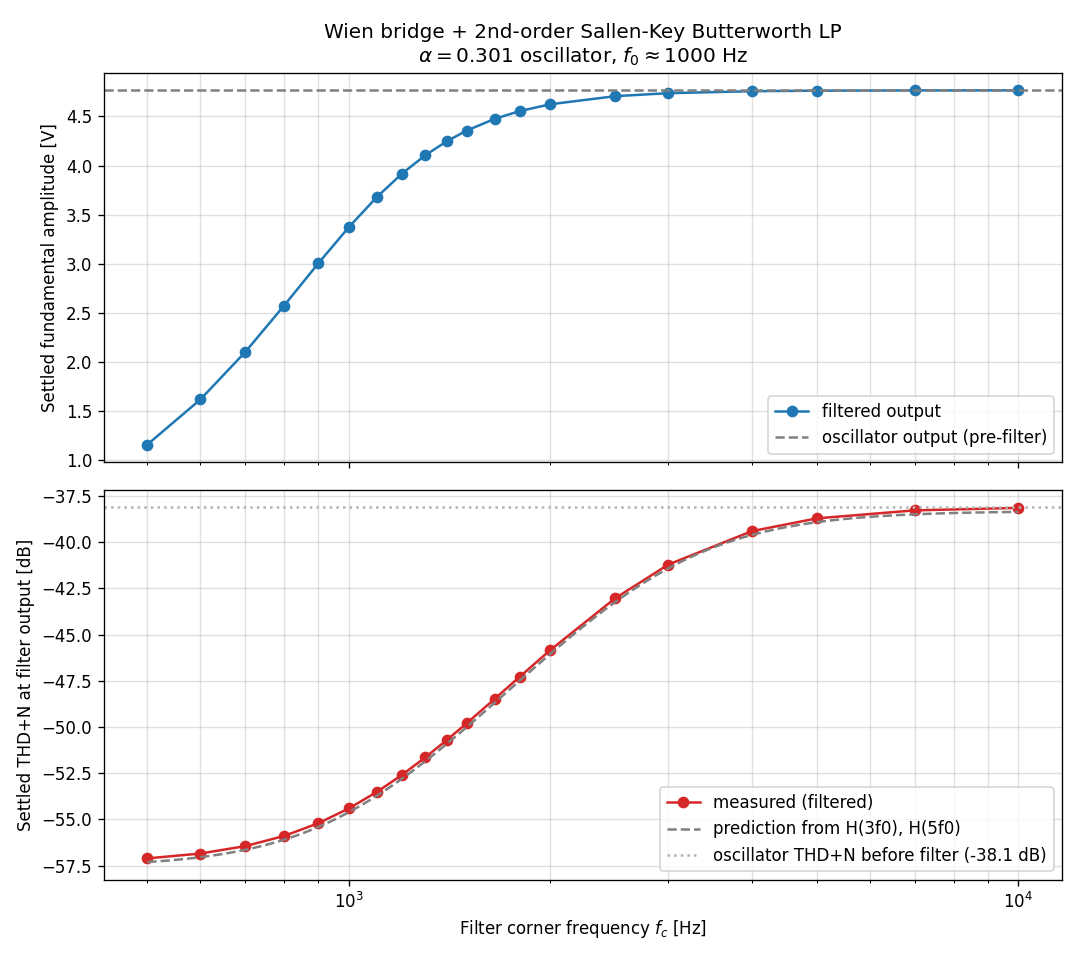
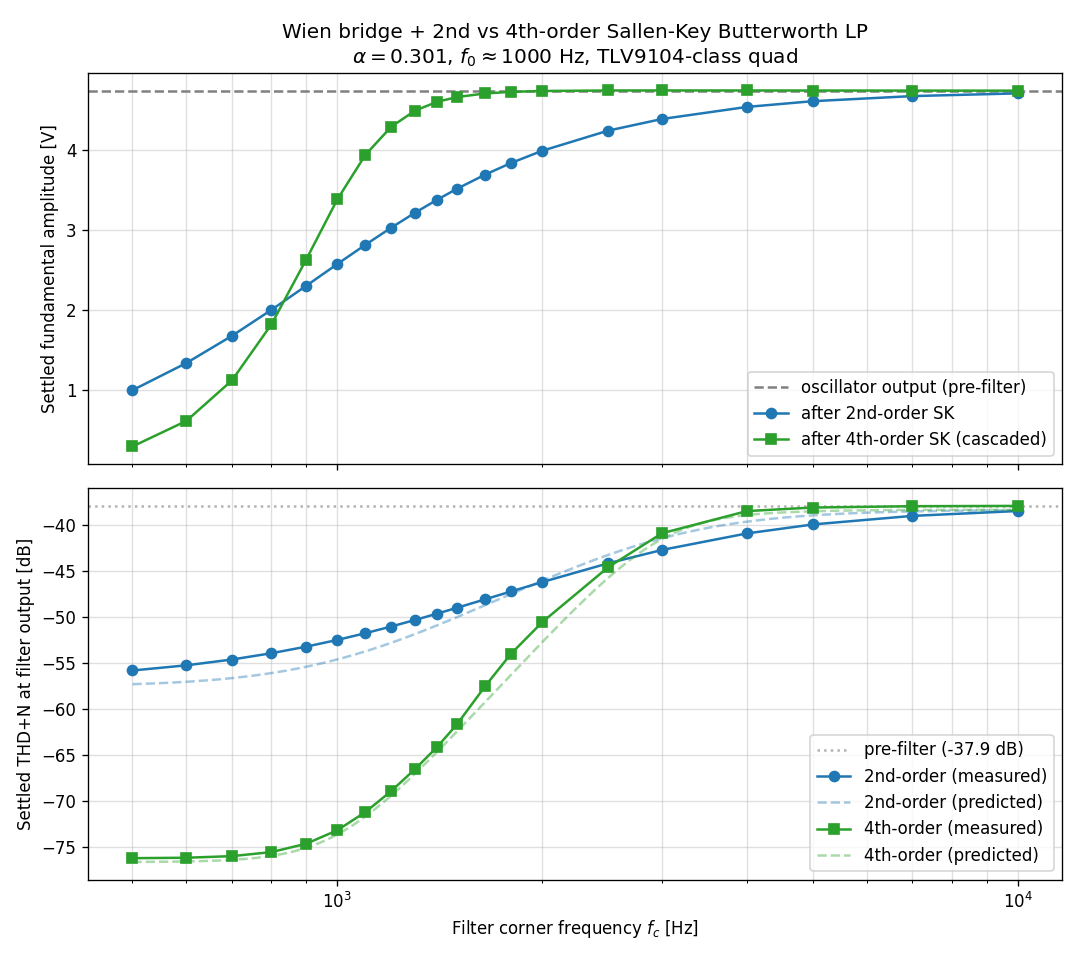
Add 4th-order Sallen-Key option using a TLV9104 quad's spare op-amps
The previous LP sweep used a single 2nd-order SK stage (one op-amp on
top of the oscillator). With a quad op-amp (TLV9104 from the user's
target application), we have two more op-amps free. Cascading them
into a 4th-order Butterworth (Q1=0.5412 + Q2=1.3066, same fc) doubles
the rolloff to 24 dB/oct.

Re-parameterised both the oscillator and the SK followers as TLV9104:
Avol=3.16M (130 dB), GBW=1 MHz, Vrail=100 mV (rail-to-rail), supplies
+/-5 V (within TLV9104's 2.7 V to 16 V range; 4.77 V peak oscillator
amplitude fits comfortably). The lower GBW vs NE5532 doesn't kill
oscillation -- loop characteristic cubic still gives clean RHP roots
at X = 0.099+j0.99, growth per period ~ exp(0.62) just like before.

Headline numbers at fc = 1.2 kHz (the practical sweet spot):
  pre-filter:  -38 dB (4.77 V)
  2nd-order:   -51 dB (3.03 V)
  4th-order:   -69 dB (4.29 V)

The 4th-order keeps near-full fundamental amplitude (Butterworth
passband flatness) AND adds ~17 dB of harmonic suppression compared
to 2nd-order at the same fc -- a clean win.

Above fc ~ 3 kHz both curves converge and the 4th-order is briefly
slightly worse, because its Q=1.3 stage's gain peaking lands on the
5 kHz 5th harmonic and TLV9104's 1 MHz GBW can't quite hit the full
Q at that frequency. Below fc ~ 1 kHz the 4th-order kills the
fundamental hard for marginal extra suppression.

https://claude.ai/code/session_017NCyg8LM8iXng2MzqG8KFd

diff --git a/ngspice_examples/sweep_lp_filter.py b/ngspice_examples/sweep_lp_filter.py
@@ -46,12 +46,23 @@ FCS = np.array([
 
 
 def make_netlist(fc_hz: float, data_path: Path) -> str:
-    # SK LP unity-gain Butterworth: C_a = 2*C_b. fc = 1/(2 pi R sqrt(C_a C_b)).
-    # With C_a = 2*C_b: fc = 1/(2 pi R C_b sqrt(2))
-    cb = 1.0 / (2 * np.pi * R_FILT * fc_hz * np.sqrt(2.0))
-    ca = 2.0 * cb
-    return f"""* Wien bridge oscillator (biased BJT, alpha=0.301) + Sallen-Key LP
-* fc = {fc_hz:.1f} Hz, R = {R_FILT/1e3:.1f}k, C_a = {ca*1e9:.4f}n, C_b = {cb*1e9:.4f}n
+    # 4th-order Butterworth = two cascaded 2nd-order SK stages with same fc
+    # but different Q. With unity-gain SK and equal Rs, Q = sqrt(Ca/Cb)/2.
+    # 4th-order Butterworth Qs: Q1 = 1/(2 cos(pi/8)) = 0.5412
+    #                           Q2 = 1/(2 cos(3pi/8)) = 1.3066
+    # Stage 1 (Q=0.5412): Ca/Cb = (2*Q)^2 = 1.171
+    # Stage 2 (Q=1.3066): Ca/Cb = (2*Q)^2 = 6.829
+    Q1 = 1.0 / (2 * np.cos(np.pi / 8))
+    Q2 = 1.0 / (2 * np.cos(3 * np.pi / 8))
+    cb1 = 1.0 / (2 * np.pi * R_FILT * fc_hz * (2 * Q1))  # smaller cap of stage 1
+    ca1 = (2 * Q1) ** 2 * cb1
+    cb2 = 1.0 / (2 * np.pi * R_FILT * fc_hz * (2 * Q2))
+    ca2 = (2 * Q2) ** 2 * cb2
+    return f"""* Wien bridge oscillator (biased BJT, alpha=0.301) + 4th-order Butterworth SK
+* fc = {fc_hz:.1f} Hz
+* Stage 1: Q={Q1:.4f}, Ca={ca1*1e9:.4f}n, Cb={cb1*1e9:.4f}n
+* Stage 2: Q={Q2:.4f}, Ca={ca2*1e9:.4f}n, Cb={cb2*1e9:.4f}n
+* Op-amps modelled as TLV9104 (quad CMOS RRIO, ±5 V supplies).
 
 .include {(HERE/'uopamp.lib').as_posix()}
 
@@ -71,18 +82,31 @@ Rbot1 b1  out {RBOT:.6g}
 Rtop2 out b2  {RTOP:.6g}
 Rbot2 b2  fb  {RBOT:.6g}
 
-* Oscillator op-amp: NE5532-class Level-2 (Ilimit raised; see uopamp.lib)
-Vcc  vcc 0  15
-Vee  vee 0 -15
-XU1  np nn vcc vee out uopamp_lvl2 Avol=100k GBW=10meg Rin=100k Rout=30 Iq=8m Ilimit=1 Vrail=1.4 Vmax=40
+* +/-5 V supplies for the whole quad
+Vcc  vcc 0  5
+Vee  vee 0 -5
 
-* --- Sallen-Key 2nd-order Butterworth low-pass (unity gain) ---
-RA    out  nfa   {R_FILT:.6g}
-RB    nfa  nfb   {R_FILT:.6g}
-CB    nfb  0     {cb:.6g}    IC=0
-CA    nfa  vfilt {ca:.6g}    IC=0
-* SK follower op-amp: same model
-XU2  nfb vfilt vcc vee vfilt uopamp_lvl2 Avol=100k GBW=10meg Rin=100k Rout=30 Iq=8m Ilimit=1 Vrail=1.4 Vmax=40
+* --- Oscillator op-amp: TLV9104-class Level-2 ---
+* Avol=130 dB, GBW=1 MHz, Rin=100G (CMOS), Rout=10, Iq=0.6m, Vrail=100m,
+* Ilimit=1A (workaround for the lvl2 offset bug; see uopamp.lib)
+XU1  np nn vcc vee out uopamp_lvl2
++    Avol=3.16meg GBW=1meg Rin=100g Rout=10 Iq=600u Ilimit=1 Vrail=100m Vmax=20
+
+* --- Stage 1 of 4th-order Butterworth Sallen-Key (Q = 0.5412) ---
+RA1   out  nfa1   {R_FILT:.6g}
+RB1   nfa1 nfb1   {R_FILT:.6g}
+CB1   nfb1 0      {cb1:.6g}    IC=0
+CA1   nfa1 vfilt1 {ca1:.6g}    IC=0
+XU2  nfb1 vfilt1 vcc vee vfilt1 uopamp_lvl2
++    Avol=3.16meg GBW=1meg Rin=100g Rout=10 Iq=600u Ilimit=1 Vrail=100m Vmax=20
+
+* --- Stage 2 of 4th-order Butterworth Sallen-Key (Q = 1.3066) ---
+RA2   vfilt1 nfa2  {R_FILT:.6g}
+RB2   nfa2   nfb2  {R_FILT:.6g}
+CB2   nfb2   0     {cb2:.6g}   IC=0
+CA2   nfa2   vfilt {ca2:.6g}   IC=0
+XU3  nfb2 vfilt vcc vee vfilt uopamp_lvl2
++    Avol=3.16meg GBW=1meg Rin=100g Rout=10 Iq=600u Ilimit=1 Vrail=100m Vmax=20
 
 .model Q2N3904 NPN(IS=6.734f XTI=3 EG=1.11 VAF=74.03 BF=416.4 NE=1.259
 + ISE=6.734f IKF=66.78m XTB=1.5 BR=.7371 NC=2 ISC=0 IKR=0 RC=1
@@ -93,7 +117,7 @@ XU2  nfb vfilt vcc vee vfilt uopamp_lvl2 Avol=100k GBW=10meg Rin=100k Rout=30 Iq
 
 .control
 run
-wrdata {data_path.as_posix()} v(out) v(vfilt)
+wrdata {data_path.as_posix()} v(out) v(vfilt1) v(vfilt)
 .endcontrol
 
 .end
@@ -133,8 +157,8 @@ def run_one(fc_hz: float):
     subprocess.run(["ngspice", "-b", cir.name], cwd=WORK,
                    check=True, capture_output=True, text=True)
     d = np.loadtxt(dat)
-    # wrdata layout for tran with 2 vars: t, v(out), t, v(vfilt)
-    return d[:, 0], d[:, 1], d[:, 3]
+    # wrdata layout for tran with 3 vars: t, v(out), t, v(vfilt1), t, v(vfilt)
+    return d[:, 0], d[:, 1], d[:, 3], d[:, 5]
 
 
 def main():
@@ -143,54 +167,62 @@ def main():
 
     rows = []
     for fc in FCS:
-        t, vout, vfilt = run_one(fc)
+        t, vout, vfilt1, vfilt = run_one(fc)
         a_raw, thd_raw = lockin_thd(t, vout)
-        a_filt, thd_filt = lockin_thd(t, vfilt)
-        print(f"fc={fc:6.0f} Hz  raw: amp={a_raw:.3f}V THD+N={20*np.log10(thd_raw):+.2f}dB  "
-              f"filt: amp={a_filt:.3f}V THD+N={20*np.log10(thd_filt):+.2f}dB")
-        rows.append((fc, a_raw, thd_raw, a_filt, thd_filt))
+        a_2nd, thd_2nd = lockin_thd(t, vfilt1)
+        a_4th, thd_4th = lockin_thd(t, vfilt)
+        print(f"fc={fc:6.0f} Hz  raw: {20*np.log10(thd_raw):+6.2f}dB  "
+              f"2nd: amp={a_2nd:.3f}V {20*np.log10(thd_2nd):+6.2f}dB  "
+              f"4th: amp={a_4th:.3f}V {20*np.log10(thd_4th):+6.2f}dB")
+        rows.append((fc, a_raw, thd_raw, a_2nd, thd_2nd, a_4th, thd_4th))
 
     arr = np.array(rows)
     fc = arr[:, 0]
-    amp_filt = arr[:, 3]
+    amp_2nd = arr[:, 3]
+    amp_4th = arr[:, 5]
     thd_raw_db = 20 * np.log10(arr[:, 2])
-    thd_filt_db = 20 * np.log10(arr[:, 4])
+    thd_2nd_db = 20 * np.log10(arr[:, 4])
+    thd_4th_db = 20 * np.log10(arr[:, 6])
 
     # Theoretical Butterworth attenuation curves vs fc, for f0 / 3f0 / 5f0:
     fc_dense = np.geomspace(fc.min(), fc.max(), 200)
-    def butter2_db(f, fc_):
-        return -10 * np.log10(1 + (f / fc_) ** 4)
-    H1 = butter2_db(F0_NOMINAL, fc_dense)
-    H3 = butter2_db(3 * F0_NOMINAL, fc_dense)
-    H5 = butter2_db(5 * F0_NOMINAL, fc_dense)
-    # Predicted THD floor: existing harmonics scaled by H_k - H_1
+    def butter_db(f, fc_, order=2):
+        return -10 * np.log10(1 + (f / fc_) ** (2 * order))
     raw_h3 = -38.5
     raw_h5 = -52.2
-    pred_h3 = raw_h3 + (H3 - H1)
-    pred_h5 = raw_h5 + (H5 - H1)
-    pred_thd = 10 * np.log10(10 ** (pred_h3 / 10) + 10 ** (pred_h5 / 10))
+    def predict(order):
+        H1 = butter_db(F0_NOMINAL, fc_dense, order)
+        H3 = butter_db(3 * F0_NOMINAL, fc_dense, order)
+        H5 = butter_db(5 * F0_NOMINAL, fc_dense, order)
+        h3 = raw_h3 + (H3 - H1)
+        h5 = raw_h5 + (H5 - H1)
+        return 10 * np.log10(10 ** (h3 / 10) + 10 ** (h5 / 10))
+    pred_2nd = predict(2)
+    pred_4th = predict(4)
 
     fig, axes = plt.subplots(2, 1, figsize=(9, 8), sharex=True)
     ax_a, ax_d = axes
 
-    ax_a.semilogx(fc, amp_filt, "o-", color="C0", label="filtered output")
     ax_a.axhline(arr[:, 1].mean(), color="0.5", linestyle="--",
                  label="oscillator output (pre-filter)")
+    ax_a.semilogx(fc, amp_2nd, "o-", color="C0", label="after 2nd-order SK")
+    ax_a.semilogx(fc, amp_4th, "s-", color="C2", label="after 4th-order SK (cascaded)")
     ax_a.set_ylabel("Settled fundamental amplitude [V]")
     ax_a.set_title(
-        "Wien bridge + 2nd-order Sallen-Key Butterworth LP\n"
-        rf"$\alpha=0.301$ oscillator, $f_0\approx{F0_NOMINAL:.0f}$ Hz"
+        "Wien bridge + 2nd vs 4th-order Sallen-Key Butterworth LP\n"
+        rf"$\alpha=0.301$, $f_0\approx{F0_NOMINAL:.0f}$ Hz, TLV9104-class quad"
     )
     ax_a.grid(True, which="both", alpha=0.4)
     ax_a.legend()
 
-    ax_d.semilogx(fc, thd_filt_db, "o-", color="C3", label="measured (filtered)")
-    ax_d.semilogx(fc_dense, pred_thd, "--", color="0.5",
-                  label="prediction from H(3f0), H(5f0)")
-    ax_d.axhline(arr[:, 2].mean() and 20*np.log10(arr[:, 2].mean()),
-                 color="0.7", linestyle=":",
-                 label=f"oscillator THD+N before filter "
-                       f"({20*np.log10(arr[:,2].mean()):.1f} dB)")
+    ax_d.axhline(20*np.log10(arr[:,2].mean()), color="0.7", linestyle=":",
+                 label=f"pre-filter ({20*np.log10(arr[:,2].mean()):.1f} dB)")
+    ax_d.semilogx(fc, thd_2nd_db, "o-", color="C0", label="2nd-order (measured)")
+    ax_d.semilogx(fc_dense, pred_2nd, "--", color="C0", alpha=0.4,
+                  label="2nd-order (predicted)")
+    ax_d.semilogx(fc, thd_4th_db, "s-", color="C2", label="4th-order (measured)")
+    ax_d.semilogx(fc_dense, pred_4th, "--", color="C2", alpha=0.4,
+                  label="4th-order (predicted)")
     ax_d.set_xlabel("Filter corner frequency $f_c$ [Hz]")
     ax_d.set_ylabel("Settled THD+N at filter output [dB]")
     ax_d.grid(True, which="both", alpha=0.4)
@@ -203,7 +235,8 @@ def main():
 
     csv = HERE / "wien_lp_sweep.csv"
     np.savetxt(csv, arr, delimiter=",",
-               header="fc_Hz,amp_raw_V,thd_raw,amp_filt_V,thd_filt", comments="")
+               header="fc_Hz,amp_raw_V,thd_raw,amp_2nd_V,thd_2nd,amp_4th_V,thd_4th",
+               comments="")
     print(f"Wrote {csv}")
 
 